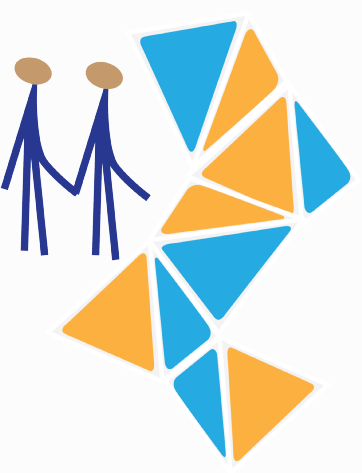
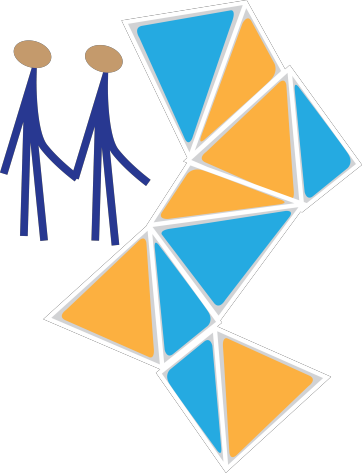
images updated

Changed region(s): [[0.0, 0.0, 1.0, 1.0], [0.4558, 0.2072, 0.4862, 0.2664], [0.4862, 0.8288, 0.5166, 0.8584]]

diff --git a/html/index.html b/html/index.html
@@ -124,7 +124,7 @@
 <div class="row content fixed-height padding-top padding-bottom">
     <div class="col-lg-3 equal-height">
         <div class="box text-center">
-            <img class="img-responsive" src="res/difficulties.png">
+            <img class="img-responsive" id="koinonia_politon" src="res/difficulties.png">
         </div>
     </div>
     <div class="col-lg-9">

diff --git a/html/css/styles.css b/html/css/styles.css
@@ -451,3 +451,6 @@ h3, .h3 {
     width: 850px;
 }
 
+#koinonia_politon{
+    margin-top: 130px;
+}
